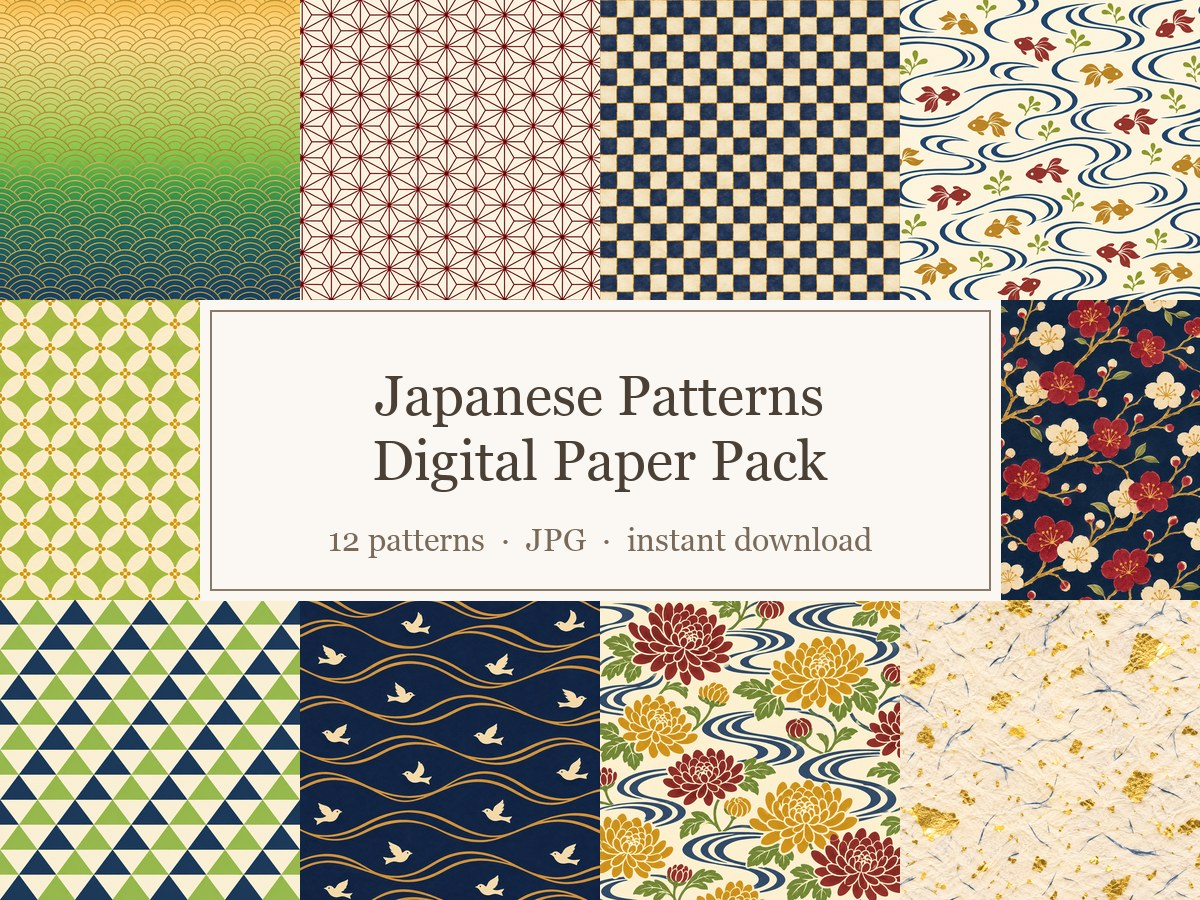
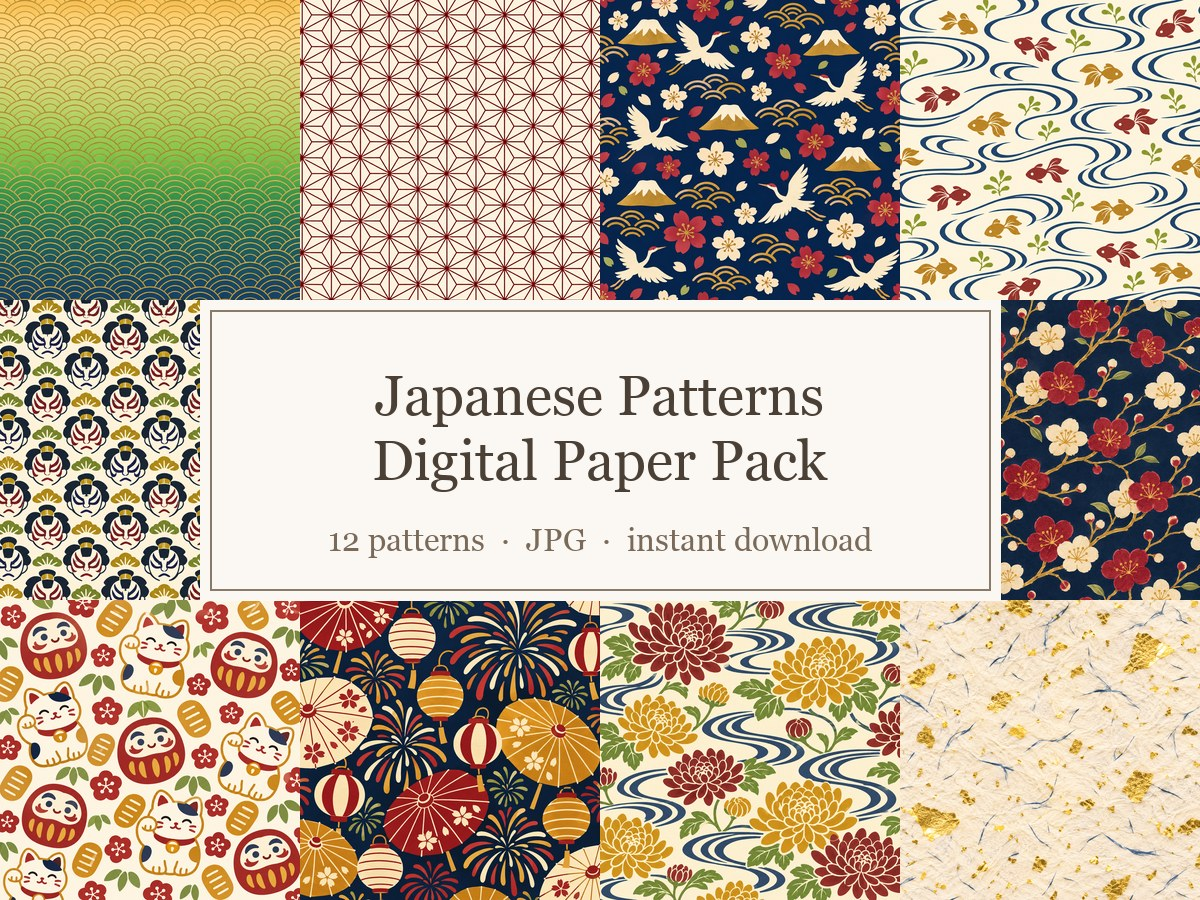
🕒 2026-11-14 21:04:43
案3・5・9・10を、富士山と桜と鶴・歌舞伎・招き猫・花火に差し替え

Changed region(s): [[0.0, 0.3111, 0.5242, 1.0], [0.4933, 0.0, 0.7708, 0.3422]]

diff --git a/js/content.js b/js/content.js
@@ -22,7 +22,7 @@ const CONTENT = {
     titleLines: ["みおん式AI副業ノート", "デジタルペーパー編"],
     image: {
       src: "assets/images/banner-1x1.jpg",
-      alt: "みおん式AI副業ノート デジタルペーパー編。ChatGPTで作る12枚セット販売スタートガイド。右上に人差し指を立てて微笑むみおんさんのイラスト、下に夕焼けグラデーションの青海波・金魚と流水・矢絣・梅・七宝・菊と流水の和柄のデジタルペーパーが6枚並んでいる",
+      alt: "みおん式AI副業ノート デジタルペーパー編。ChatGPTで作る12枚セット販売スタートガイド。右上に人差し指を立てて微笑むみおんさんのイラスト、下に夕焼けグラデーションの青海波・金魚と流水・富士山と桜と鶴・梅と枝・矢絣・菊と流水の和柄のデジタルペーパーが6枚並んでいる",
     },
     // 解説動画は今回なし。入れる場合は assets/video/tutorial.mp4 と tutorial-poster.jpg を置いて設定する。
     tutorial: null,
@@ -71,7 +71,7 @@ const CONTENT = {
       figures: [
         {
           src: "assets/images/dp-set-12.jpg",
-          alt: "今回の作例。和柄のデジタルペーパー12枚。夕焼けグラデーションの青海波、麻の葉、市松、小さな金魚と流水、七宝、矢絣、亀甲と小花、梅と枝、鱗、小さな鳥と波、菊と流水、金箔を散らした和紙が4列3段に並んでいる",
+          alt: "今回の作例。和柄のデジタルペーパー12枚。夕焼けグラデーションの青海波、麻の葉、富士山と桜と鶴、小さな金魚と流水、歌舞伎の隈取、矢絣、亀甲と小花、梅と枝、招き猫とだるま、提灯と和傘と花火、菊と流水、金箔を散らした和紙が4列3段に並んでいる",
           caption: "今回の作例。藍色・生成り・えんじ色・金茶・若草色でそろえた、和柄12枚です。",
           zoom: true,
         },
@@ -97,7 +97,7 @@ const CONTENT = {
       prompts: [
         {
           label: "① 12枚分のデザイン案を出してもらうプロンプト",
-          text: "デジタルペーパー（背景や紙面に使う、全面に柄が広がった画像素材）を、12枚セットで作りたいです。画像をつくる前に、まず12枚分のデザイン案を考えてください。\n\n【テーマ】\n（ここにテーマを入力）\n例：和柄（青海波、麻の葉、市松、桜、梅など）。手帳やカードの背景に使う\n\n【配色】\n（ここに配色を入力）\n例：藍色、生成り、えんじ色、金茶、若草色\n\n【条件】\n・12案、それぞれ柄の種類が重ならない（波、幾何学、花、鳥、金魚、市松、矢絣、和紙の質感など）\n・12枚とも同じ配色で、セットとして統一感がある\n・案ごとに「柄の名前」「モチーフ」「色の使い方」を1〜2行で書く\n・文字、ロゴ、既存のキャラクターやブランドの柄は使わない\n・画像はまだ作らず、案の一覧だけ出す",
+          text: "デジタルペーパー（背景や紙面に使う、全面に柄が広がった画像素材）を、12枚セットで作りたいです。画像をつくる前に、まず12枚分のデザイン案を考えてください。\n\n【テーマ】\n（ここにテーマを入力）\n例：和柄（青海波、麻の葉、市松、桜、梅など）。手帳やカードの背景に使う\n\n【配色】\n（ここに配色を入力）\n例：藍色、生成り、えんじ色、金茶、若草色\n\n【条件】\n・12案、それぞれ柄の種類が重ならない（波、幾何学、富士山、鶴、桜、金魚、歌舞伎、招き猫、花火、和紙の質感など）\n・12枚とも同じ配色で、セットとして統一感がある\n・案ごとに「柄の名前」「モチーフ」「色の使い方」を1〜2行で書く\n・文字、ロゴ、既存のキャラクターやブランドの柄は使わない\n・画像はまだ作らず、案の一覧だけ出す",
         },
       ],
       point: {
@@ -107,14 +107,14 @@ const CONTENT = {
         examples: [
           "案1　青海波の夕焼けグラデーション",
           "案2　麻の葉",
-          "案3　市松模様",
+          "案3　富士山と桜と鶴",
           "案4　小さな金魚と流水",
-          "案5　七宝つなぎ",
+          "案5　歌舞伎の隈取（くまどり）",
           "案6　矢絣（やがすり）",
           "案7　亀甲と小花",
           "案8　梅と枝",
-          "案9　鱗（うろこ）",
-          "案10　小さな鳥と波",
+          "案9　招き猫とだるま",
+          "案10　提灯と和傘と花火",
           "案11　菊と流水",
           "案12　金箔を散らした和紙",
         ],

diff --git a/docs/requirements.md b/docs/requirements.md
@@ -29,6 +29,6 @@
 
 ## 5. 作例
 
-和柄のデジタルペーパー12枚（青海波の夕焼けグラデーション・麻の葉・市松・金魚と流水・七宝・矢絣・亀甲・梅・鱗・鳥と波・菊と流水・金箔を散らした和紙）はCodexの画像生成で作成（和柄12種・藍／生成り／えんじ／金茶／若草・各1254×1254px）。実際にChatGPTで同じプロンプトを実行した結果とは異なる場合がある。
+和柄のデジタルペーパー12枚（夕焼け青海波・麻の葉・富士山と桜と鶴・金魚と流水・歌舞伎の隈取・矢絣・亀甲・梅・招き猫とだるま・提灯と和傘と花火・菊と流水・金箔和紙）はCodexの画像生成で作成（和柄12種・藍／生成り／えんじ／金茶／若草・各1254×1254px）。実際にChatGPTで同じプロンプトを実行した結果とは異なる場合がある。
 
 作例の12案は制作側で設計し、各案を②相当のプロンプトで画像化した（ChatGPTが返した案ではない）。ページでは「12案の例（今回の作例）」と表記。
